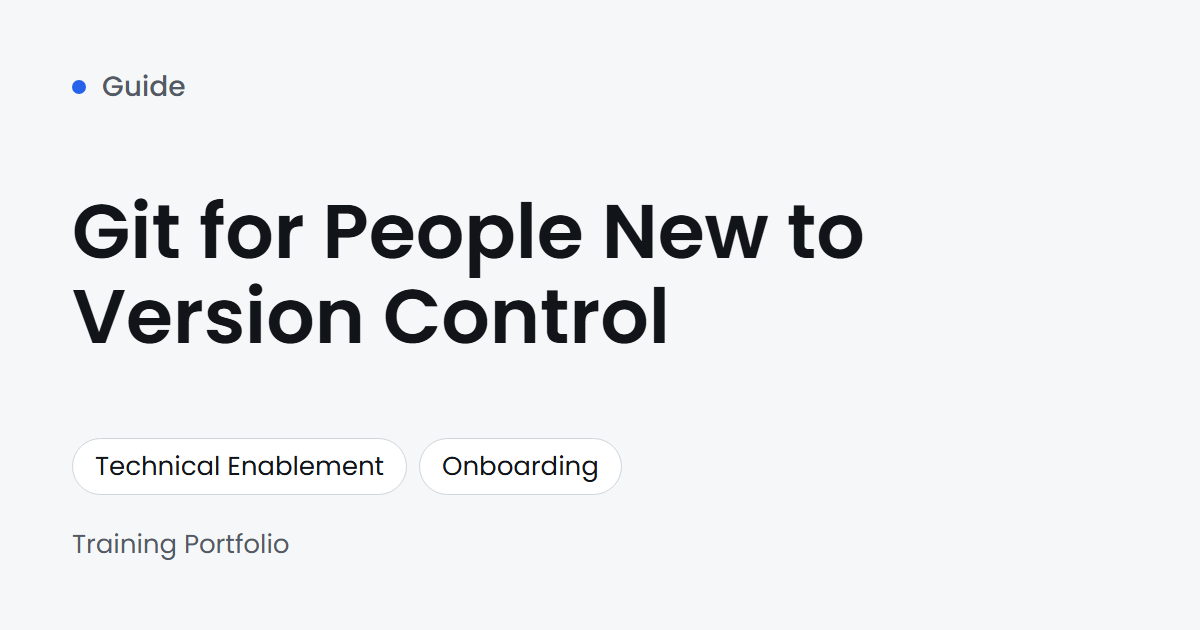
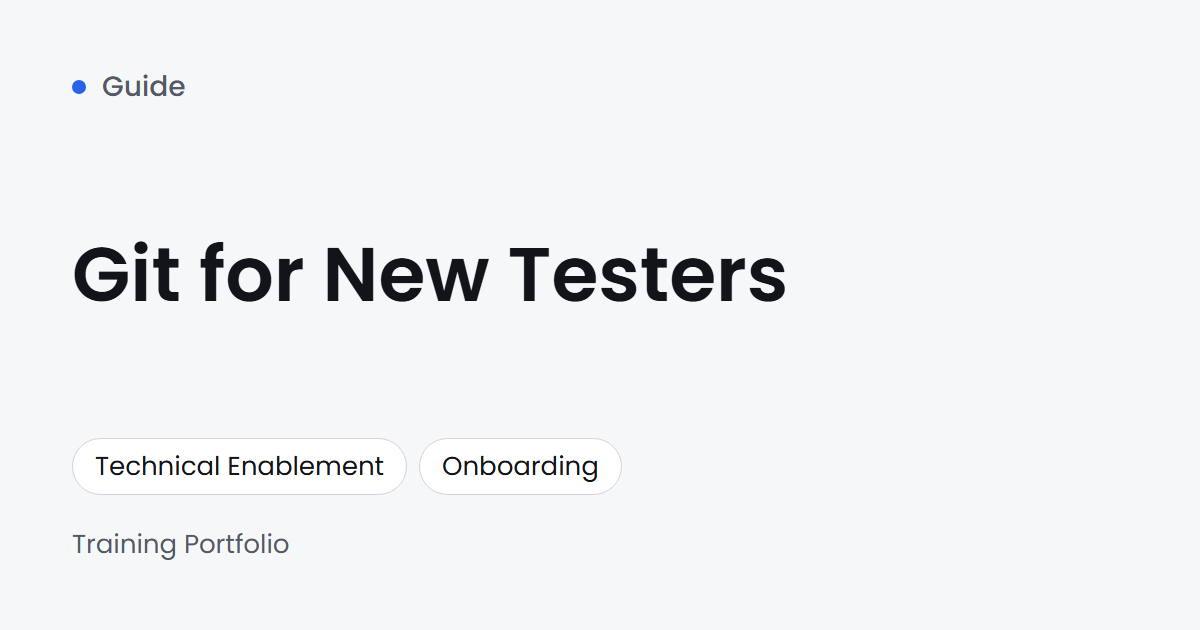
Rename the Git guide to Git for New Testers

Changed region(s): [[0.0617, 0.3016, 0.74, 0.5429]]

diff --git a/README.md b/README.md
@@ -13,7 +13,7 @@ Click a course to open its page on the site.
 | Course | Goals | Length | Open |
 |---|---|---|---|
 | [**QA Automation Onboarding**](https://rizvihiqrar.github.io/training-portfolio/01-onboarding-programs/qa-automation-onboarding/) | Open a project, ask an AI helper for code, and write and run a first automated test | 10 days | [Lesson plan](https://rizvihiqrar.github.io/training-portfolio/01-onboarding-programs/qa-automation-onboarding/lesson-plan-day-5-practice.html), [Quiz](https://rizvihiqrar.github.io/training-portfolio/01-onboarding-programs/qa-automation-onboarding/quiz.html), [Scoring guide](https://rizvihiqrar.github.io/training-portfolio/01-onboarding-programs/qa-automation-onboarding/rubric-day-10-practical-round.html), [Source files](01-onboarding-programs/qa-automation-onboarding/) |
-| [**Git for People New to Version Control**](https://rizvihiqrar.github.io/training-portfolio/04-technical-enablement/git-workflow-guide/) | Save, branch, share and fix a conflict with eight commands, then send a pull request | 2 hours | [Quiz](https://rizvihiqrar.github.io/training-portfolio/04-technical-enablement/git-workflow-guide/quiz.html), [Source files](04-technical-enablement/git-workflow-guide/) |
+| [**Git for New Testers**](https://rizvihiqrar.github.io/training-portfolio/04-technical-enablement/git-workflow-guide/) | Save, branch, share and fix a conflict with eight commands, then send a pull request | 2 hours | [Quiz](https://rizvihiqrar.github.io/training-portfolio/04-technical-enablement/git-workflow-guide/quiz.html), [Source files](04-technical-enablement/git-workflow-guide/) |
 
 After ten one-hour days, a tester who has never written code can open a project in VS Code, ask an AI helper for help, and write and run a simple automated test of a website. Two of the days are hands-on, with no video, because the goal is to do, not only watch.
 

diff --git a/04-technical-enablement/README.md b/04-technical-enablement/README.md
@@ -4,4 +4,4 @@ Short guides that help a non-developer use a technical tool safely on their firs
 
 Courses:
 
-- [Git for People New to Version Control](git-workflow-guide/): Four 30-minute sessions on save points, branches, pull requests and conflicts, with a quiz and an eight-command cheat sheet.
+- [Git for New Testers](git-workflow-guide/): Four 30-minute sessions on save points, branches, pull requests and conflicts, with a quiz and an eight-command cheat sheet.

diff --git a/04-technical-enablement/git-workflow-guide/full/git-workflow-guide-full.md b/04-technical-enablement/git-workflow-guide/full/git-workflow-guide-full.md
@@ -1,4 +1,4 @@
-# Git for People New to Version Control: Full Version
+# Git for New Testers: Full Version
 
 The longer version of the course page: who it is for, the choices behind it, the four sessions and how learning was checked. All names, files and numbers in the practice project are made up.
 

diff --git a/04-technical-enablement/git-workflow-guide/README.md b/04-technical-enablement/git-workflow-guide/README.md
@@ -1,4 +1,4 @@
-# Git for People New to Version Control
+# Git for New Testers
 
 | At a Glance | |
 |---|---|
